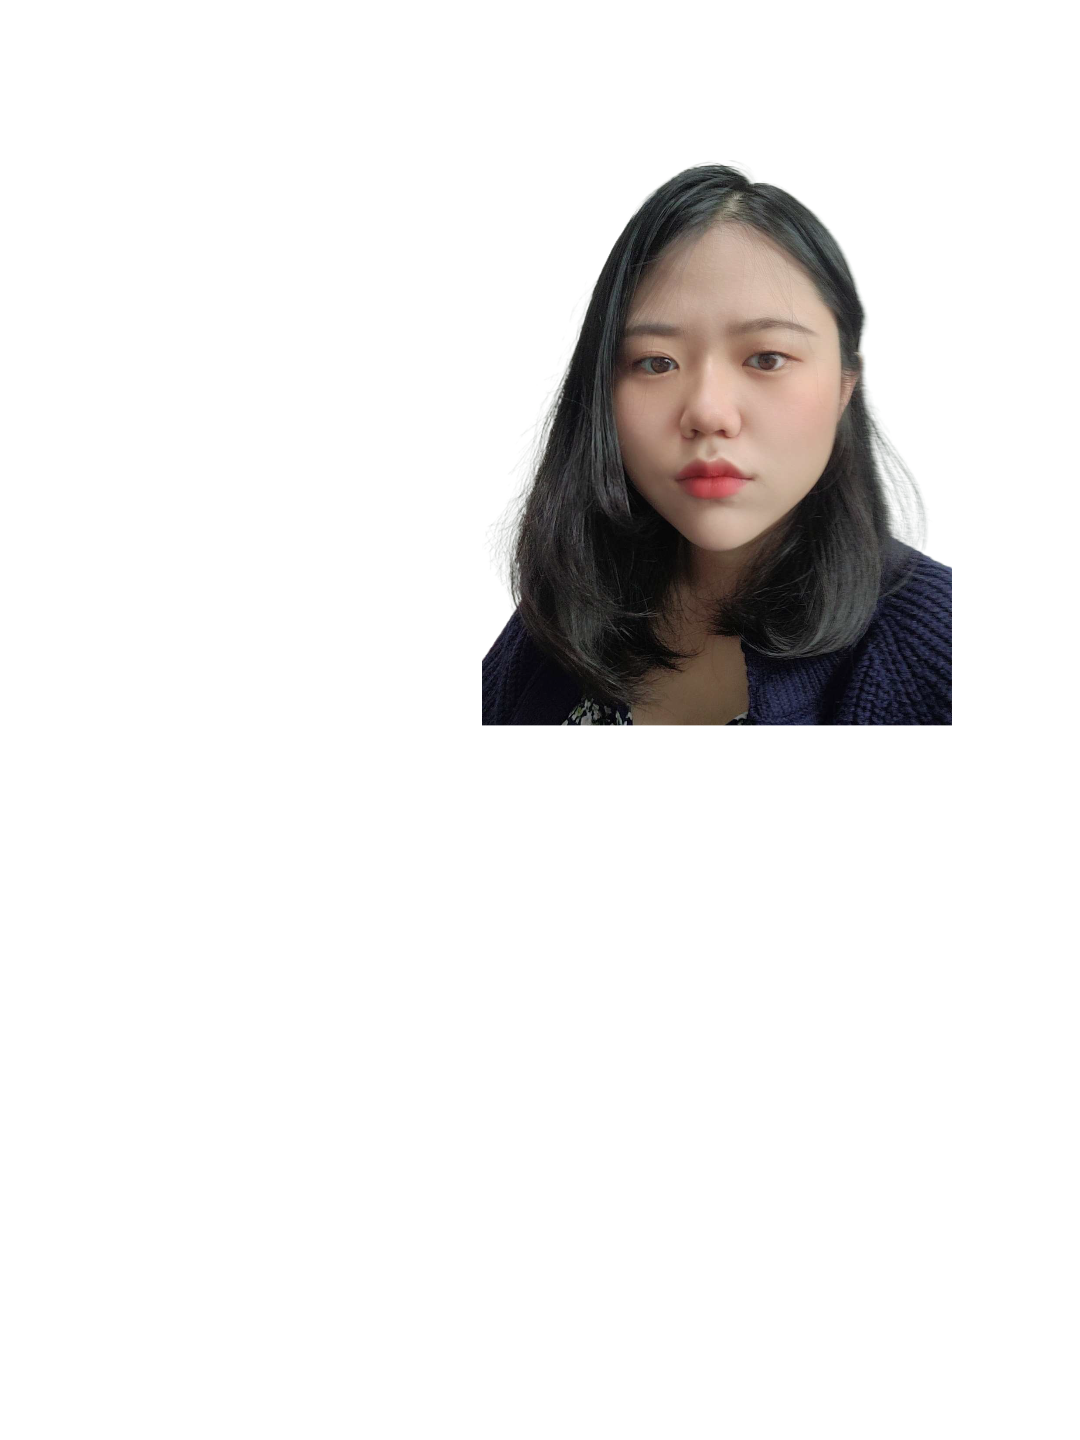
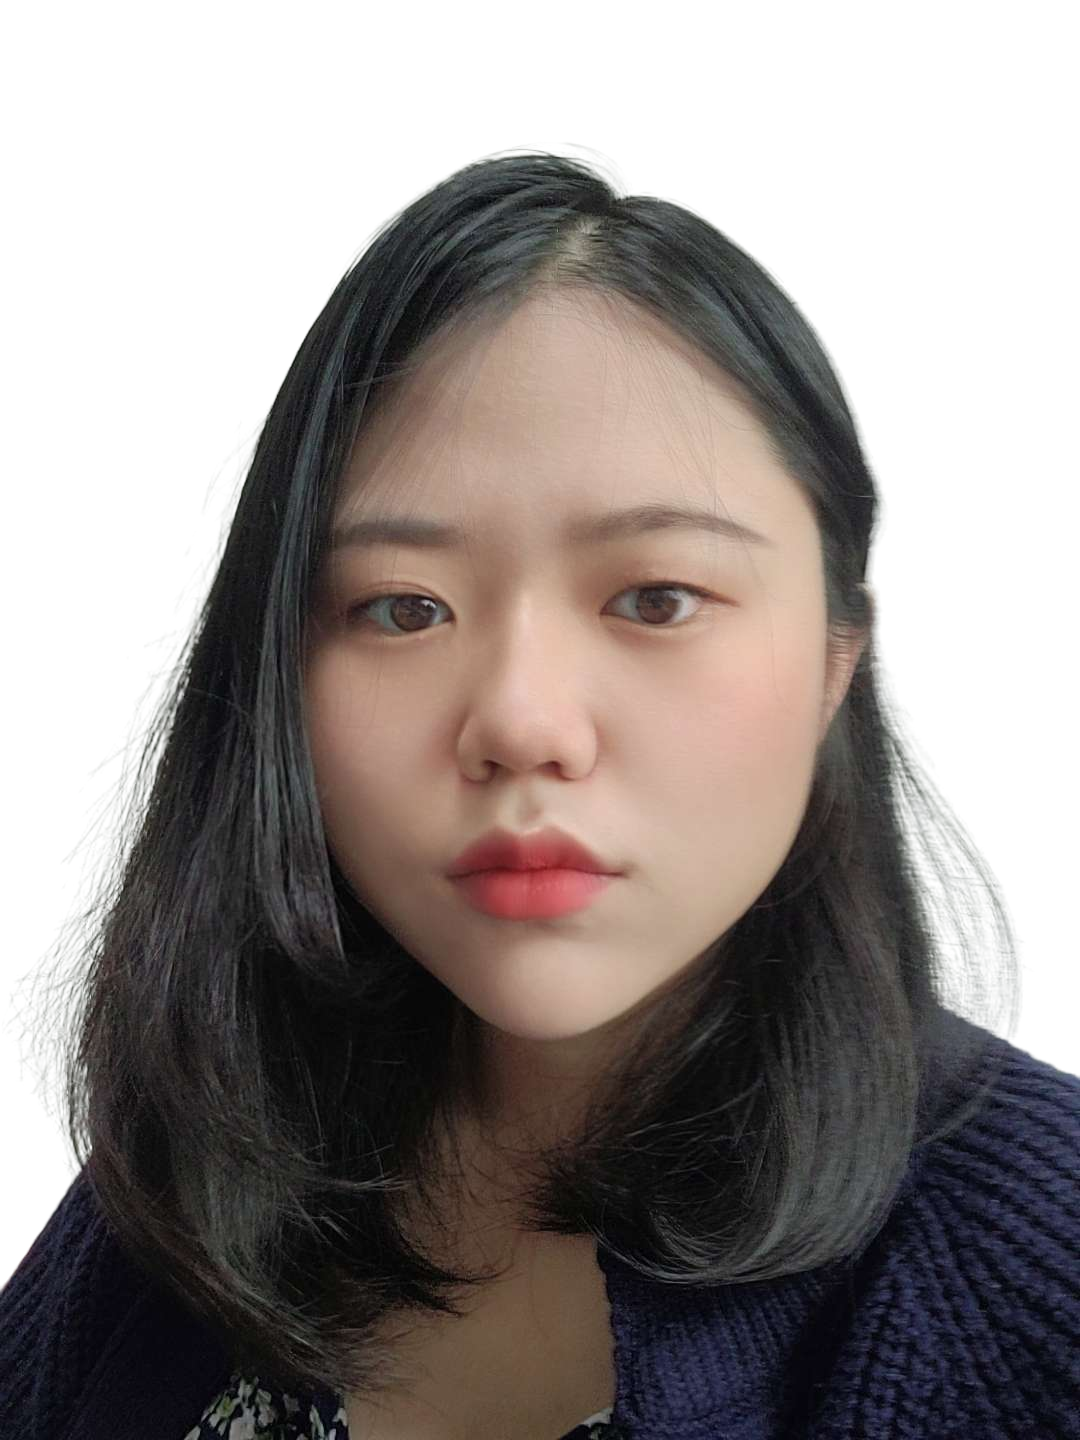
<수정>

diff --git a/src/component/PersonInfo.js b/src/component/PersonInfo.js
@@ -1,30 +1,38 @@
 import React, { useState, useEffect } from 'react';
 
 
-const PersonInfo = ({currentPerson, personList }) =>{
+const PersonInfo = ({ currentPerson, personList }) => {
+  const [resultName, setResultName] = useState("")
+  const [resultCharge, setResultCharge] = useState("")
   const [resultImage, setResultImage] = useState("")
 
   useEffect(() => {
     if (Object.keys(currentPerson).length == 0) {
+      setResultName(personList[0].name);
+      setResultCharge(personList[0].charge);
       setResultImage(personList[0].image);
     } else {
+      setResultName(currentPerson.name);
+      setResultCharge(currentPerson.charge);
       setResultImage(currentPerson.image);
     }
   }, [currentPerson])
 
   return (
     <div className="wrap">
-       <div className='B'>{currentPerson.charge}</div>
-        <div className='A'>{currentPerson.name}</div>
-          {/* 상세페이지 */}
+      <div className='B'>{resultName}</div>
+      <div className='A'>{resultCharge}</div>
+      {/* 상세페이지 */}
       <div className="profile">
         <img className="circle" src="image/직사각형.png"></img>
-        <img className="profilephoto" src={ resultImage }></img>
-        <div className="profiletxt">
-          <br></br> <br></br>
-              <div>항상 도전하고 성장하는 프론트엔드 개발자입니다.</div>
-              <div>많은 사람들과 소통하며 발전할 수 있어 좋았습니다.</div>
+        <div style={{ position: "absolute", width: "250px", height: "300px", marginLeft: "40px", marginTop: "25px" }}>
+          <img className="profilephoto" src={resultImage}></img>
         </div>
+      </div>
+      <div className="profiletxt">
+        <br></br> <br></br>
+        <div style={{ marginLeft: "500px", marginTop: "100px" }}>항상 도전하고 성장하는 프론트엔드 개발자입니다.</div>
+        <div style={{ marginLeft: "500px" }}>많은 사람들과 소통하며 발전할 수 있어 좋았습니다.</div>
       </div>
     </div>
   );

diff --git a/src/App.css b/src/App.css
@@ -11,12 +11,13 @@
   pointer-events: none;
 
 }
+
 .profile {
   position: fixed;
   display: flex;
   bottom: 0;
-  width: 1540px;
-  height:350px;
+  width: 100%;
+  height: 350px;
   background-color: #fbf6f6;
   z-index: -1;
 }
@@ -24,27 +25,27 @@
 .dvelopers {
   display: flex;
   margin-left: 230px;
-  margin-top: 70px;
+  margin-top: 30px;
 }
 
 span {
   display: block;
   font-size: 15px;
   text-align: center;
-  
+
 }
 
-em{
+em {
   display: block;
   text-align: center;
   font-weight: bold;
   font-style: normal;
   font-size: 20px;
-  
+
 }
 
 
-.A{
+.A {
   margin-left: 470px;
   margin-top: 110px;
   margin-bottom: -100px;
@@ -69,7 +70,7 @@ a {
 
   float: left;
 
- 
+
 }
 
 .photo {
@@ -83,28 +84,24 @@ a {
   border-radius: 50%;
 }
 
-.profilephoto{
-  width: 500px;
-  height: 600px;
-  margin-left:-437px;
-  margin-top:20px;
+.profilephoto {
   transform: scaleX(-1);
+  width: 100%;
+  height: 100%;
 }
 
-.profiletxt{
+.profiletxt {
   white-space: pre-line;
-  margin-top: 120px;
-  margin-left: 1px;
-  
 }
 
-.circle{
+.circle {
   width: 380px;
   height: 300px;
   border-radius: 0 150px 150px 0;
   margin-left: 40px;
   margin-top: 26px;
-  background-color: gray
+  background-color: gray;
+  position: relative;
 }
 
 
@@ -135,6 +132,7 @@ a {
   from {
     transform: rotate(0deg);
   }
+
   to {
     transform: rotate(360deg);
   }

diff --git a/src/App.js b/src/App.js
@@ -5,7 +5,10 @@ import PersonInfo from './component/PersonInfo';
 
 function App() {
   const [personList, setPersonList] = useState([
-    { name: "윤지애", charge: "Frontend", src: "image/윤지애님.png", image: "image/윤지애님투명.png" },
+    {
+      name: "윤지애", charge: "Frontend", src: "image/윤지애님.png", image: "image/윤지애님투명.png",
+      text: "항상 도전하고 성장하는 프론트엔드 개발자입니다. 많은 사람들과 소통하며 발전할 수 있어 좋았습니다."
+    },
     { name: "임현석", charge: "Backend", src: "image/임현석님.png", image: "image/임현석님투명.png" },
     { name: "우유정", charge: "Designer", src: "image/우유정님.png", image: "image/우유정님투명.png" },
     { name: "밀크정", charge: "기획", src: "image/우유정2.png", image: "image/우유정2투명.png" },
@@ -14,7 +17,7 @@ function App() {
   const [currentPerson, setCurrentPerson] = useState({});
 
   useEffect(() => {
-    //console.log(currentPerson)
+    console.log(currentPerson)
   }, [currentPerson]);
 
   const personInfo = (index) => {
